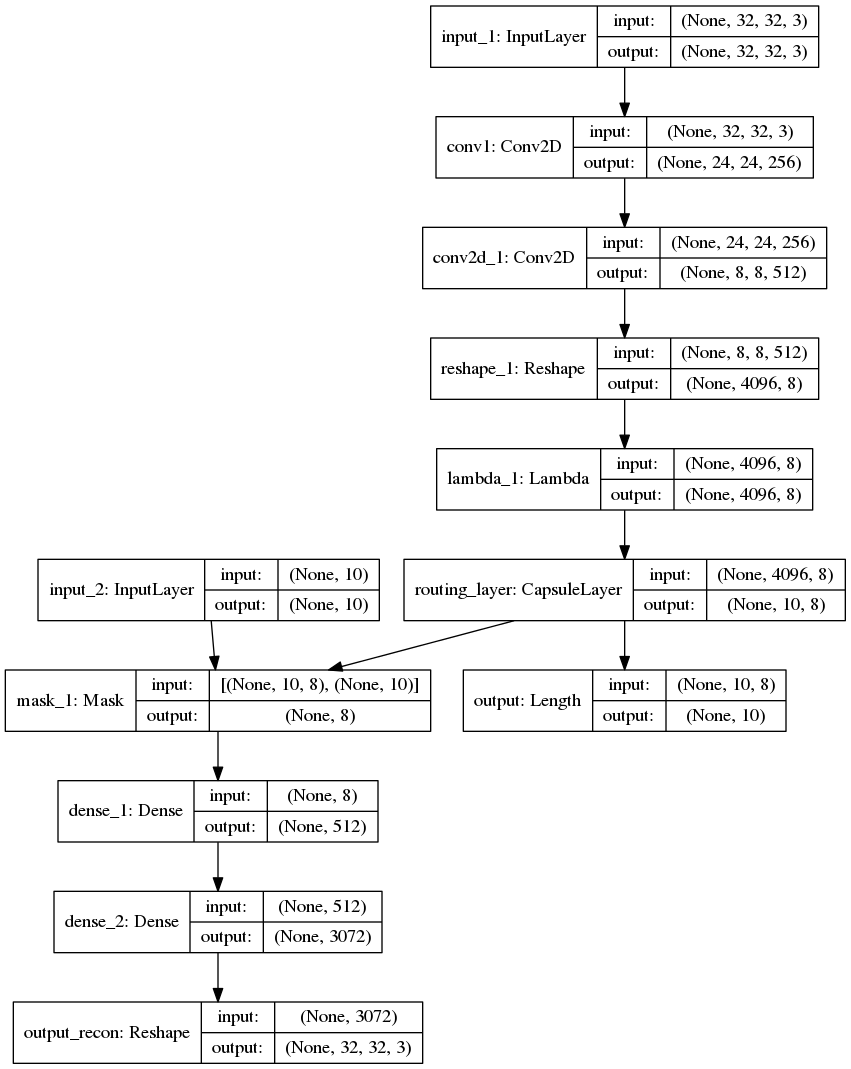
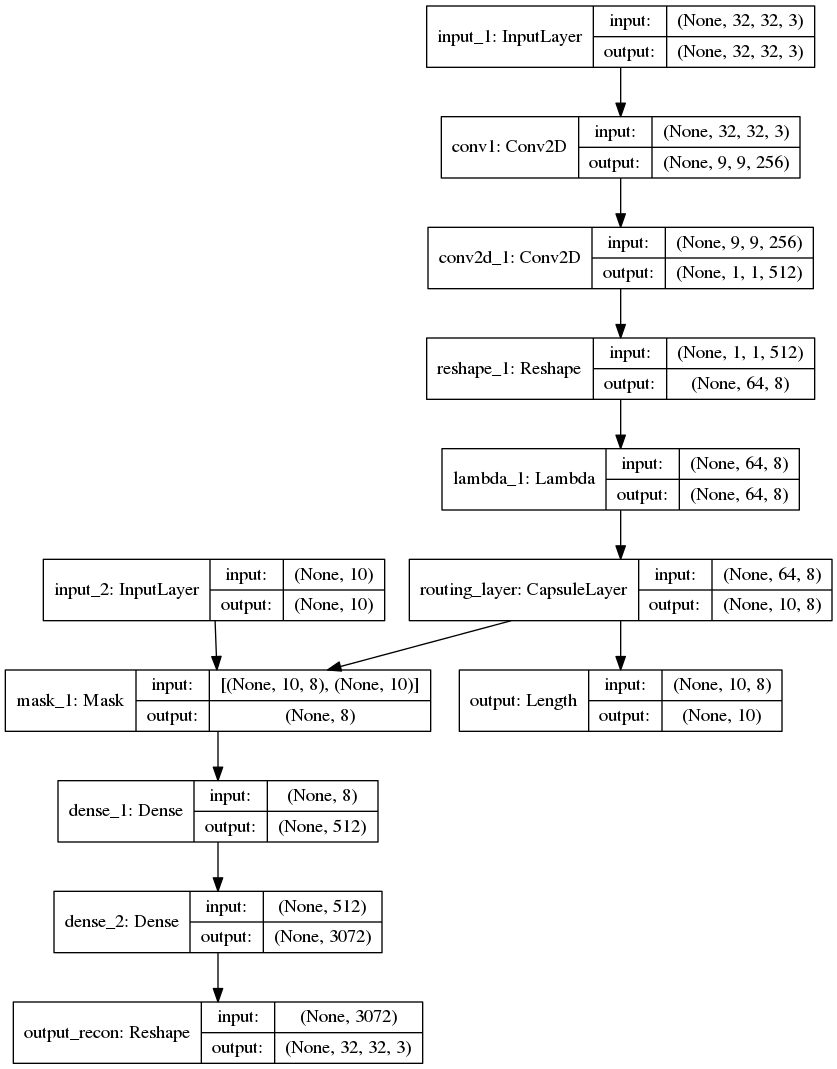
added image augmentation for training

diff --git a/models/capsule_net.py b/models/capsule_net.py
@@ -1,5 +1,6 @@
 from keras.layers import (
     Input,
+    Conv2D,
     Activation,
     Dense,
     Flatten,
@@ -12,6 +13,7 @@ from keras.models import Model
 from models.capsule_layers import CapsuleLayer, PrimaryCapsule, Length,Mask
 from keras.layers.normalization import BatchNormalization
 import keras.backend as K
+from keras import optimizers
 from utils.helper_function import load_cifar_10,load_cifar_100
 import numpy as np
 
@@ -23,8 +25,41 @@ def convolution_block(input,kernel_size=8,filters=16,kernel_regularizer=l2(1.e-4
     activation = Activation("relu")(norm)
     return activation    
 
-# why using 512, 1024 Maybe to mimic original 10M params?
 def CapsNet(input_shape,n_class,n_route,n_prime_caps=32,dense_size = (512,1024)):
+    conv_filter = 256
+    n_kernel = 24
+    primary_channel =64
+    primary_vector = 8
+
+    target_shape = input_shape
+
+    input = Input(shape=input_shape)
+
+    # TODO: try leaky relu next time
+    conv1 = Conv2D(filters=conv_filter,kernel_size=n_kernel, strides=1, padding='valid', activation='relu',name='conv1',kernel_initializer="he_normal")(input)
+
+    primary_cap = PrimaryCapsule(conv1,dim_vector=8, n_channels=64,kernel_size=9,strides=2,padding='valid')
+
+    routing_layer = CapsuleLayer(num_capsule=n_class, dim_vector=8, num_routing=n_route,name='routing_layer')(primary_cap)
+
+
+    output = Length(name='output')(routing_layer)
+
+    y = Input(shape=(n_class,))
+    masked = Mask()([routing_layer,y])
+    
+    x_recon = Dense(dense_size[0],activation='relu')(masked)
+
+    for i in range(1,len(dense_size)-1):
+        x_recon = Dense(dense_size[i],activation='relu')(x_recon)
+    # Is there any other way to do  
+    x_recon = Dense(target_shape[0]*target_shape[1]*target_shape[2],activation='relu')(x_recon)
+    x_recon = Reshape(target_shape=target_shape,name='output_recon')(x_recon)
+
+    return Model([input,y],[output,x_recon])
+
+# why using 512, 1024 Maybe to mimic original 10M params?
+def CapsNetv2(input_shape,n_class,n_route,n_prime_caps=32,dense_size = (512,1024)):
     conv_filter = 64
     n_kernel = 16
     primary_channel =64
@@ -53,8 +88,8 @@ def CapsNet(input_shape,n_class,n_route,n_prime_caps=32,dense_size = (512,1024))
     x_recon = Dense(target_shape[0]*target_shape[1]*target_shape[2],activation='relu')(x_recon)
     x_recon = Reshape(target_shape=target_shape,name='output_recon')(x_recon)
 
-    conv_block_2 = convolution_block(routing_layer)
-    b12_sum = add([conv_block_2,conv_block_1])
+    # conv_block_2 = convolution_block(routing_layer)
+    # b12_sum = add([conv_block_2,conv_block_1])
 
     return Model([input,y],[output,x_recon])
 
@@ -76,7 +111,7 @@ def train(epochs=200,batch_size=64,mode=1):
     from keras import callbacks
     from keras.utils.vis_utils import plot_model
     if mode==1:
-        num_classes = 11
+        num_classes = 10
         (x_train,y_train),(x_test,y_test) = load_cifar_10()
     else:
         num_classes = 100
@@ -98,12 +133,20 @@ def train(epochs=200,batch_size=64,mode=1):
 
     plot_model(model, to_file='models/capsule-cifar-'+str(num_classes)+'.png', show_shapes=True)
 
-    model.compile(optimizer='sgd',
+    model.compile(optimizer=optimizers.Adam(lr=0.001),
                   loss=[margin_loss, 'mse'],
-                  loss_weights=[1., 0.0005],
+                  loss_weights=[1., 0.1],
                   metrics={'output_recon':'accuracy','output':'accuracy'})
-    model.fit([x_train, y_train], [y_train, x_train], batch_size=batch_size, epochs=epochs,shuffle=True,
-              validation_data=[[x_test, y_test], [y_test, x_test]], callbacks=[log, tb, checkpoint])
+    from utils.helper_function import data_generator
+
+    generator = data_generator(x_train,y_train,batch_size)
+    model.fit_generator(generator,
+                        steps_per_epoch=x_train.shape[0] // batch_size,
+                        validation_data=([x_test, y_test], [y_test, x_test]),
+                        epochs=epochs, verbose=1, max_q_size=100,
+                        callbacks=[log,tb,checkpoint,lr_decay])
+    # model.fit([x_train, y_train], [y_train, x_train], batch_size=batch_size, epochs=epochs,shuffle=True,
+    #           validation_data=[[x_test, y_test], [y_test, x_test]], callbacks=[log, tb, checkpoint])
 
 def test(epoch, mode=1):
     import matplotlib.pyplot as plt

diff --git a/utils/helper_function.py b/utils/helper_function.py
@@ -88,3 +88,27 @@ def plot_log(filename, show=True):
     # fig.savefig('result/log.png')
     if show:
         plt.show()
+
+
+def data_generator(x,y,batch_size):
+    x_train,y_train = x,y
+    from keras.preprocessing.image import ImageDataGenerator
+    datagen = ImageDataGenerator(
+        featurewise_center=False,  # set input mean to 0 over the dataset
+        samplewise_center=False,  # set each sample mean to 0
+        featurewise_std_normalization=False,  # divide inputs by std of the dataset
+        samplewise_std_normalization=False,  # divide each input by its std
+        zca_whitening=False,  # apply ZCA whitening
+        rotation_range=0,  # randomly rotate images in the range (degrees, 0 to 180)
+        width_shift_range=0.1,  # randomly shift images horizontally (fraction of total width)
+        height_shift_range=0.1,  # randomly shift images vertically (fraction of total height)
+        horizontal_flip=True,  # randomly flip images
+        vertical_flip=False)  # randomly flip images
+
+    # Compute quantities required for featurewise normalization
+    # (std, mean, and principal components if ZCA whitening is applied).
+    datagen.fit(x_train)
+    generator = datagen.flow(x_train,y_train,batch_size=batch_size)
+    while True:
+        x,y  = generator.next()
+        yield ([x,y],[y,x])

diff --git a/main.py b/main.py
@@ -3,6 +3,6 @@ from models.capsule_net import test as capsule_test
 from models.resnet import train as resnet_train
 
 if __name__ == "__main__":
-    resnet_train()
-    # capsule_train(150, 16, 1)
+    # resnet_train()
+    capsule_train(150, 32, 1)
     # capsule_test(19)
